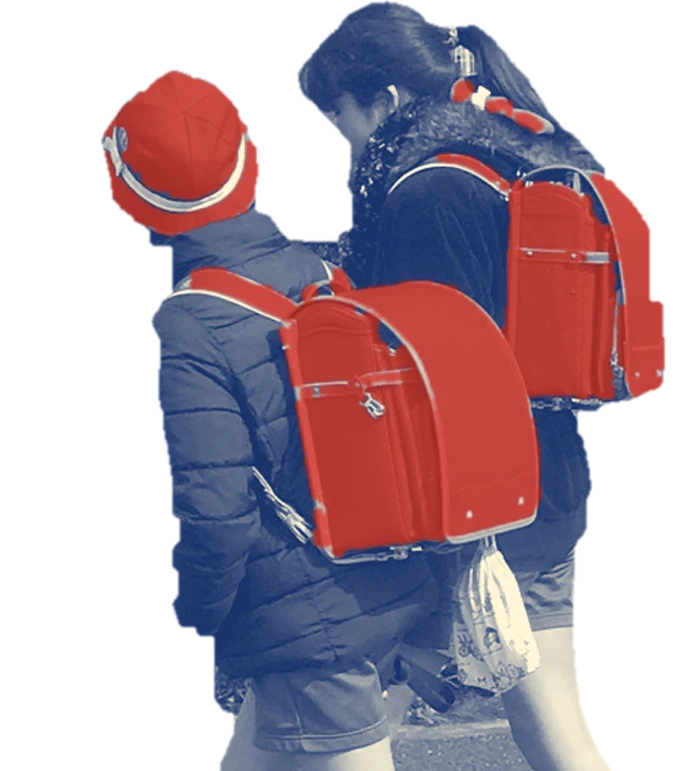
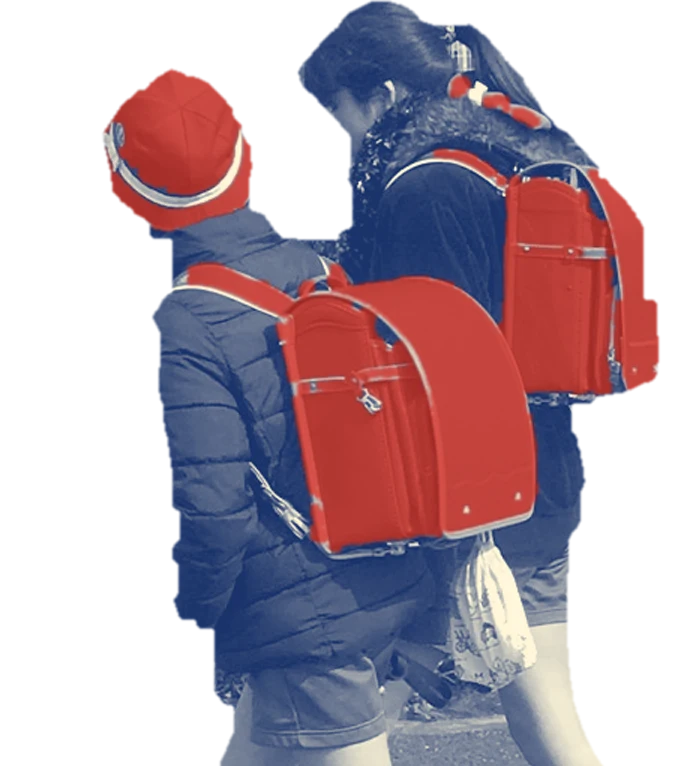
examples: おかえりノートの手書きの英字・切り抜きの縁・にっこりを直す
Claude-Session: https://claude.ai/code/session_01MCVScYqA7Yptzcmfb5df1H

diff --git a/examples/gakudo-app/index.html b/examples/gakudo-app/index.html
@@ -98,10 +98,10 @@ ul,ol{padding:0;list-style:none}
 .bubble{left:43%;top:30%;width:220px;transform:rotate(-6deg)}
 .star{left:88%;top:52%;width:156px;transform:rotate(10deg)}
 .heart{display:none}
-.smile{left:30%;bottom:36px;width:84px;transform:rotate(8deg)}
+.smile{left:calc(5% + 236px);bottom:44px;width:72px;transform:rotate(8deg)}
 .squig{display:none}
 .arrow{left:57%;top:45%;width:150px;transform:rotate(18deg)}
-.hand{position:absolute;left:52%;top:9%;z-index:3;font-family:"Klee One",cursive;font-size:44px;color:#d8402f;transform:rotate(-6deg);line-height:1}
+.hand{position:absolute;left:40%;top:2%;z-index:3;font-family:"Klee One",cursive;font-weight:600;font-size:36px;color:#d8402f;transform:rotate(-3deg);line-height:1;-webkit-text-stroke:1px #d8402f;white-space:nowrap}
 .tate{position:absolute;right:26px;top:110px;z-index:3;writing-mode:vertical-rl;font-size:16px;font-weight:700;letter-spacing:.2em;color:var(--blue)}
 .cover-cta{position:absolute;left:5%;bottom:54px;z-index:4}
 .btn-cover{background:var(--blue);color:#fff6d8;border-radius:30px;min-height:52px;padding:8px 28px;font-size:17px}

diff --git a/examples/gakudo-app/README.md b/examples/gakudo-app/README.md
@@ -347,3 +347,4 @@ Playwright（Chromium）で PC 1440px・スマホ 390px の最初の画面と全
 - 写真の出典は画面の左下に「写真 Nesnad・CC BY 4.0（切り抜いて色を変えた）」。使わなくなった下校の写真2枚（黄色い帽子の列・元の写真）は外した。
 - **inspect**：FAIL 0。`--allow photo-cover`（主役の切り抜きを大きく置く方向なので、写真で画面を覆う割合は見ない）。残した WARN：title-date は、閉じたダイアログ（稼働状況）の中の「2026年10月26日 15:10 時点」を、大きな英字の左上（0,0）にあると数えているもので、画面には出ていない。dense-screen 13 は、2画面目以降の下校時刻表（セル 25）と連絡帳の画面による。
 - 確かめた画面：PC 1440×900・1280×720・スマホ 390×844。1280×720 で「無料で試す」が画面の外に出たので、最初の画面の高さを画面の高さ（600〜800px）に合わせた。
+- 親セッションの指摘で直した（同じ日）：赤い手書きの英字を OKAERI の字の上から外して、字の上の空きへ（太さも 600 に）。切り抜きのマスクを 2px 内側に縮めて、帽子・肩の明るい縁を落とした。にっこりはボタンの横に寄せた。
